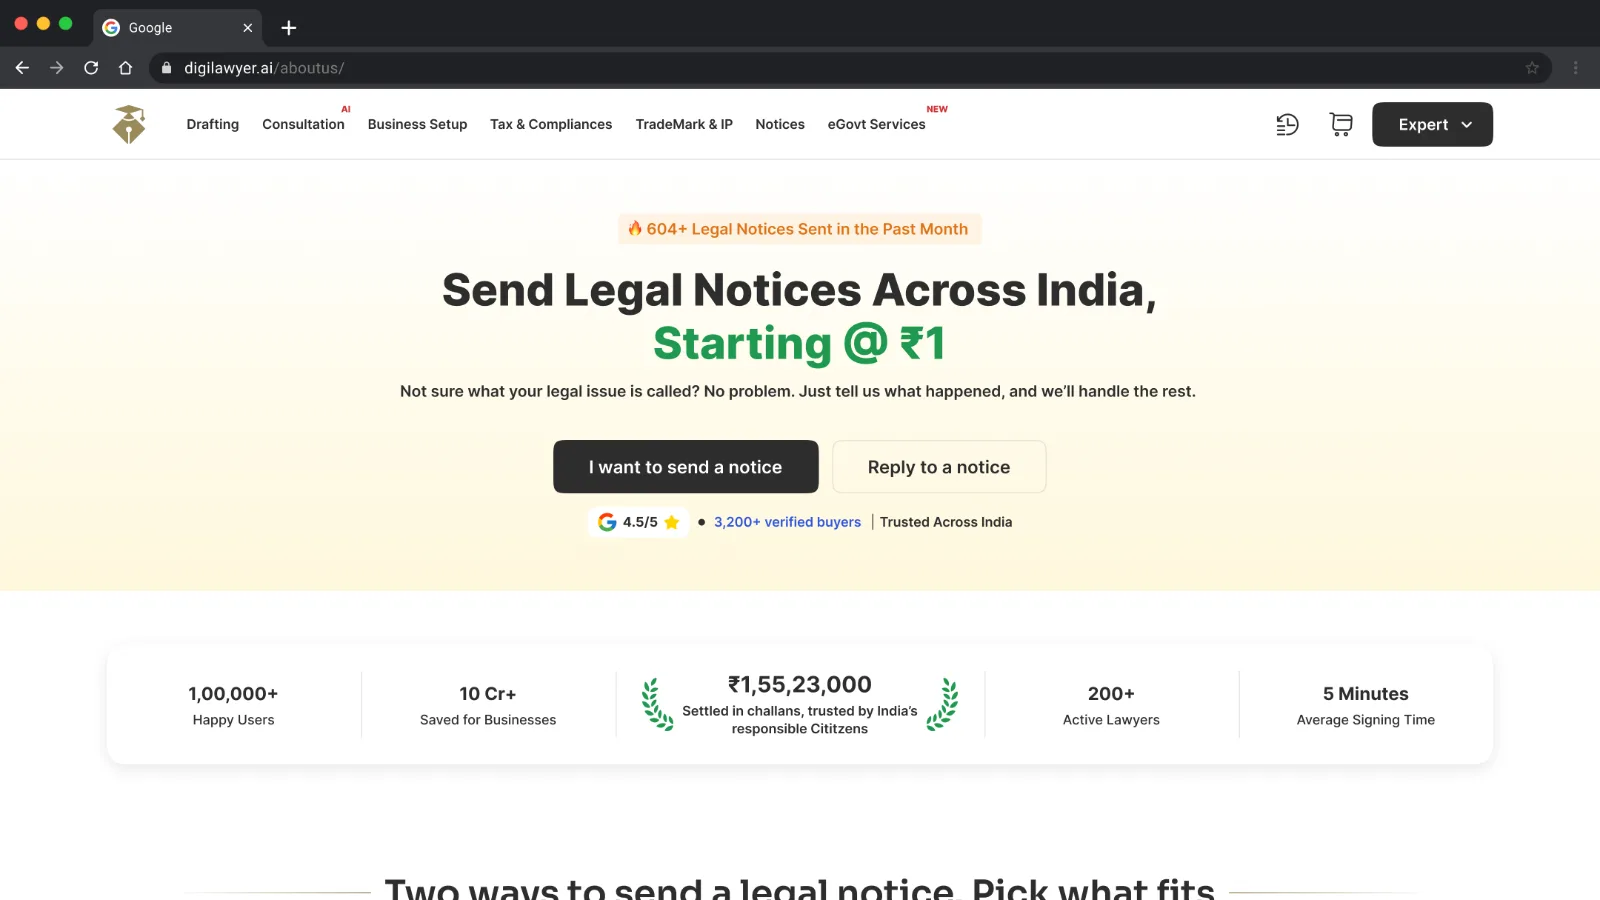
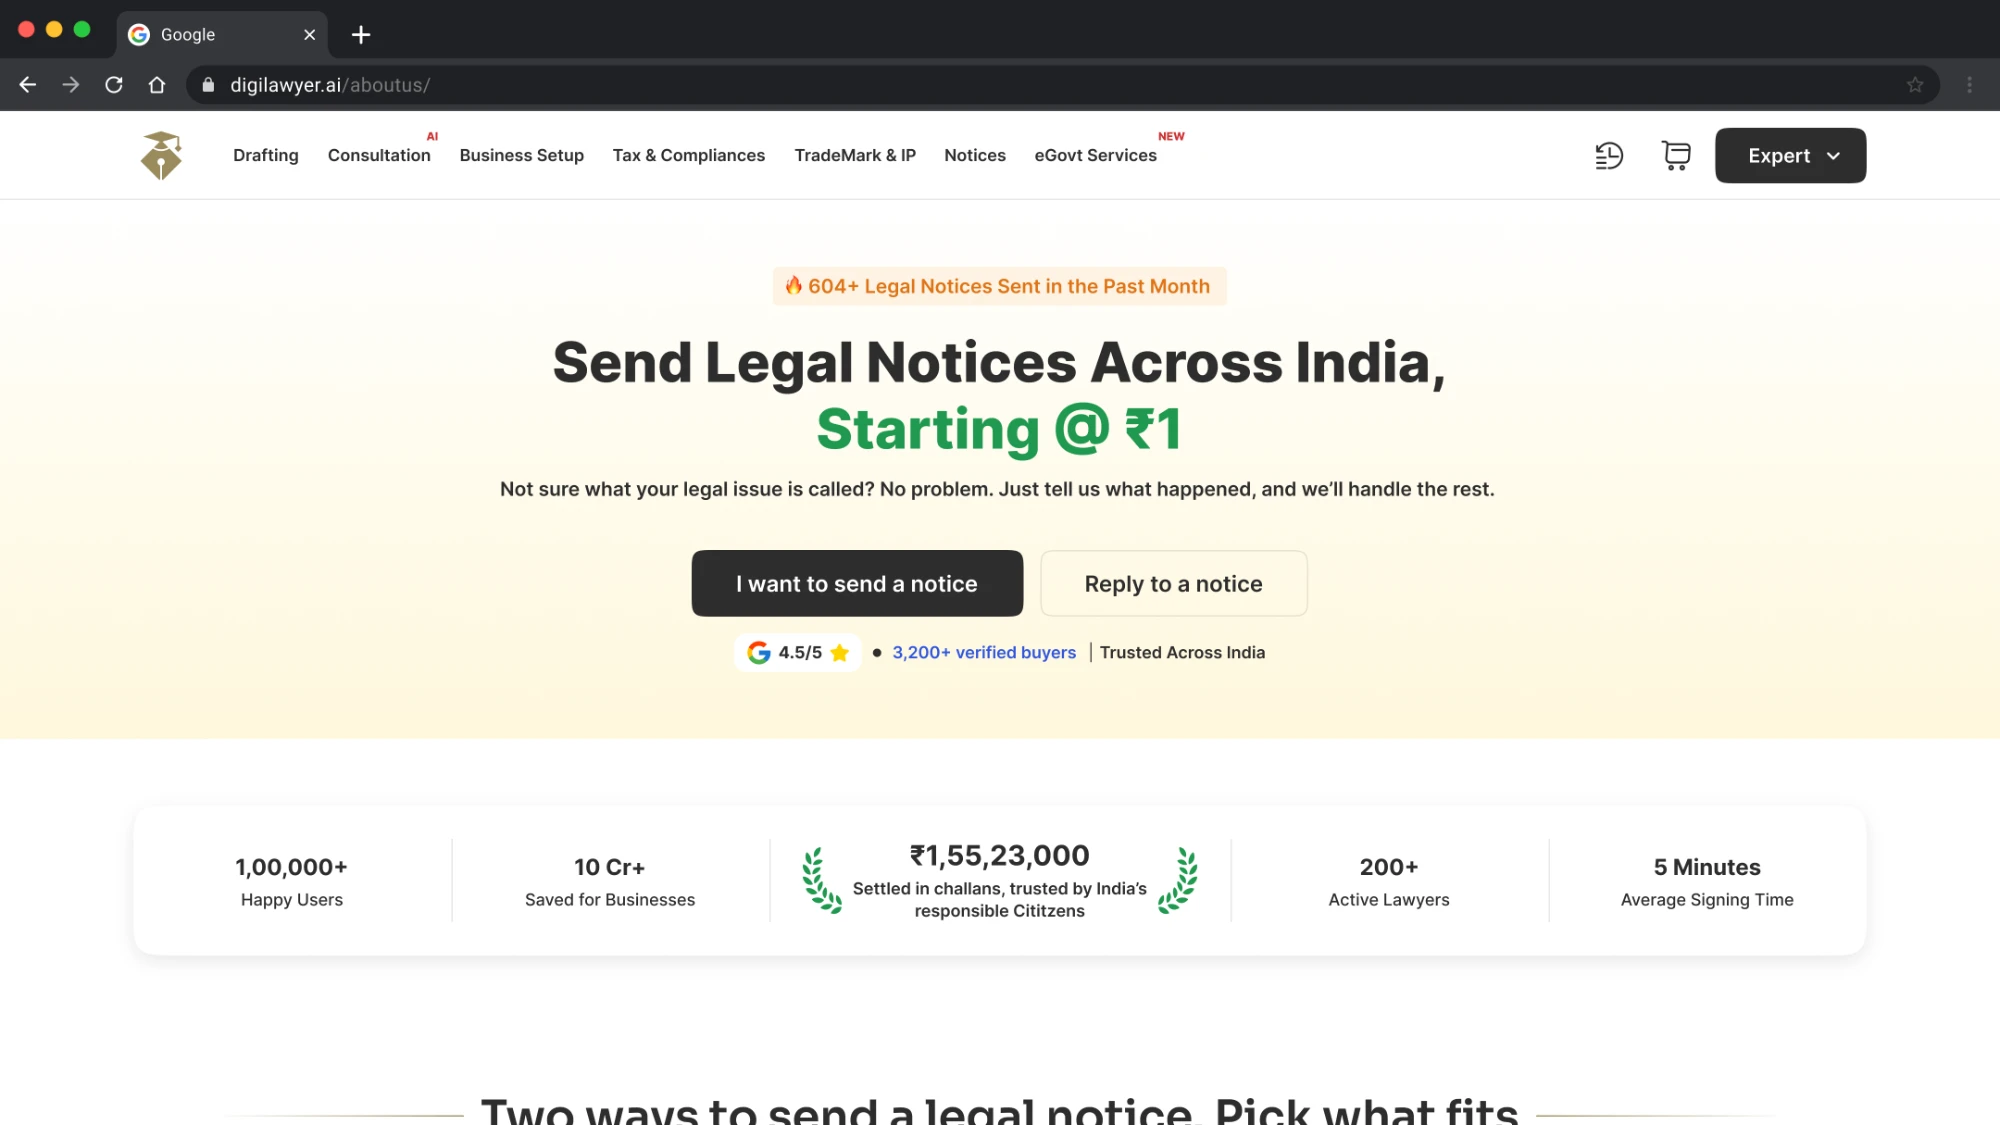
Export the captures at the size they are actually shown
The challan frame was a 358px strip left over from when it sat in a
four-up grid. Full width it was being blown up 3.7x, which is why it
read as mush. The five gallery pages were exported at 1600px and shown
at 1058 device pixels, so they were soft on any screen above 1x.

Re-exported from the original page captures: the gallery at 2000px wide
(master at its native 1715, since scaling it further invents nothing),
and the challan split in two. The inline frame now carries only the top
band it actually shows, and the whole 8570px page sits behind data-full
so the lightbox fetches it on click rather than with the article.

Nothing is upscaled any more: every image on the page measures at or
below 1.0x against the device pixels it is painted into.

diff --git a/digilawyer.html b/digilawyer.html
@@ -543,7 +543,7 @@
       </div>
 
       <figure class="cs-shot" data-zoom>
-        <img src="assets/digilawyer/challan.webp" alt="The redesigned DigiLawyer challan page captured end to end, from the hero down through the supporting sections." width="358" height="2560" loading="lazy" decoding="async" />
+        <img src="assets/digilawyer/challan-top.webp" data-full="assets/digilawyer/challan-full.webp" alt="The top of the redesigned DigiLawyer challan page: a single vehicle-number field beside a Settle Your Challan button, above the results summary." width="2000" height="982" loading="lazy" decoding="async" />
         <figcaption>
           The redesigned challan page. The frame holds the top of it; open it full page
           to run through the section order end to end.
@@ -632,35 +632,35 @@
 
         <div class="cs-gallery-track" id="cs-gallery-track">
           <figure class="cs-card cs-card--paper cs-slide" id="page-listing" role="tabpanel" aria-labelledby="tab-listing" data-zoom>
-            <img src="assets/pages/listing.webp" alt="The Notices Hub listing page: a headline offering legal notices from one rupee, above search and category filters." width="1600" height="900" loading="lazy" decoding="async" />
+            <img src="assets/pages/listing.webp" alt="The Notices Hub listing page: a headline offering legal notices from one rupee, above search and category filters." width="2000" height="1125" loading="lazy" decoding="async" />
             <figcaption>
               <span class="cs-meta-label">Listing</span>
               <span class="cs-artifact-desc">Search, categories and relevant service options</span>
             </figcaption>
           </figure>
           <figure class="cs-card cs-card--paper cs-slide" id="page-product" role="tabpanel" aria-labelledby="tab-product" data-zoom>
-            <img src="assets/pages/product.webp" alt="The money recovery notice page: the service explained beside a sample notice and a send button." width="1600" height="900" loading="lazy" decoding="async" />
+            <img src="assets/pages/product.webp" alt="The money recovery notice page: the service explained beside a sample notice and a send button." width="2000" height="1125" loading="lazy" decoding="async" />
             <figcaption>
               <span class="cs-meta-label">Product detail</span>
               <span class="cs-artifact-desc">Service details and the situations they apply to</span>
             </figcaption>
           </figure>
           <figure class="cs-card cs-card--paper cs-slide" id="page-usecase" role="tabpanel" aria-labelledby="tab-usecase" data-zoom>
-            <img src="assets/pages/usecase.webp" alt="The friendly loan recovery page: a headline about money a friend has not returned, beside a form asking what happened." width="1600" height="900" loading="lazy" decoding="async" />
+            <img src="assets/pages/usecase.webp" alt="The friendly loan recovery page: a headline about money a friend has not returned, beside a form asking what happened." width="2000" height="1125" loading="lazy" decoding="async" />
             <figcaption>
               <span class="cs-meta-label">Use case</span>
               <span class="cs-artifact-desc">Friendly loan recovery, with a form matched to the situation</span>
             </figcaption>
           </figure>
           <figure class="cs-card cs-card--paper cs-slide" id="page-assembled" role="tabpanel" aria-labelledby="tab-assembled" data-zoom>
-            <img src="assets/pages/assembled.webp" alt="The challan page: a single vehicle-number field beside a Settle Your Challan button, above the results summary." width="1600" height="900" loading="lazy" decoding="async" />
+            <img src="assets/pages/assembled.webp" alt="The challan page: a single vehicle-number field beside a Settle Your Challan button, above the results summary." width="2000" height="1125" loading="lazy" decoding="async" />
             <figcaption>
               <span class="cs-meta-label">Assembled</span>
               <span class="cs-artifact-desc">Built from the same shared sections</span>
             </figcaption>
           </figure>
           <figure class="cs-card cs-card--paper cs-slide" id="page-master" role="tabpanel" aria-labelledby="tab-master" data-zoom>
-            <img src="assets/pages/master.webp" alt="The master asset page: shared sections laid out in order, each under a heading naming its type." width="1600" height="900" loading="lazy" decoding="async" />
+            <img src="assets/pages/master.webp" alt="The master asset page: shared sections laid out in order, each under a heading naming its type." width="1715" height="965" loading="lazy" decoding="async" />
             <figcaption>
               <span class="cs-meta-label">Master page</span>
               <span class="cs-artifact-desc">Every shared section in one place, each under a heading naming its type. Placeholder copy throughout: this is the catalogue, not a page.</span>

diff --git a/digilawyer.js b/digilawyer.js
@@ -112,7 +112,10 @@
       "<span>Full page</span>";
     trigger.addEventListener("click", function () {
       last = trigger;
-      full.src = img.currentSrc || img.src;
+      /* data-full points at the whole page where the inline frame only holds
+         its top. It is the heavy file, so it is fetched here rather than with
+         the article. */
+      full.src = img.dataset.full || img.currentSrc || img.src;
       full.alt = img.alt;
       var cap = host.querySelector("figcaption");
       caption.textContent = cap ? cap.textContent.trim() : "";
@@ -122,10 +125,9 @@
     host.appendChild(trigger);
   });
 
-  // These exports run from 249 to 1147px wide. Stretching a narrow one
-  // across a 1000px dialog is a 3x blow-up that turns to mush, so the
-  // dialog takes its width from the image, capped at twice natural: enough
-  // to read the structure, not so much that it invents detail.
+  // A narrow export stretched across a 1000px dialog is a blow-up that turns
+  // to mush, so the dialog takes its width from the image, capped at twice
+  // natural: enough to read the structure, not so much that it invents detail.
   full.addEventListener("load", function () {
     var natural = full.naturalWidth;
     if (!natural) return;
